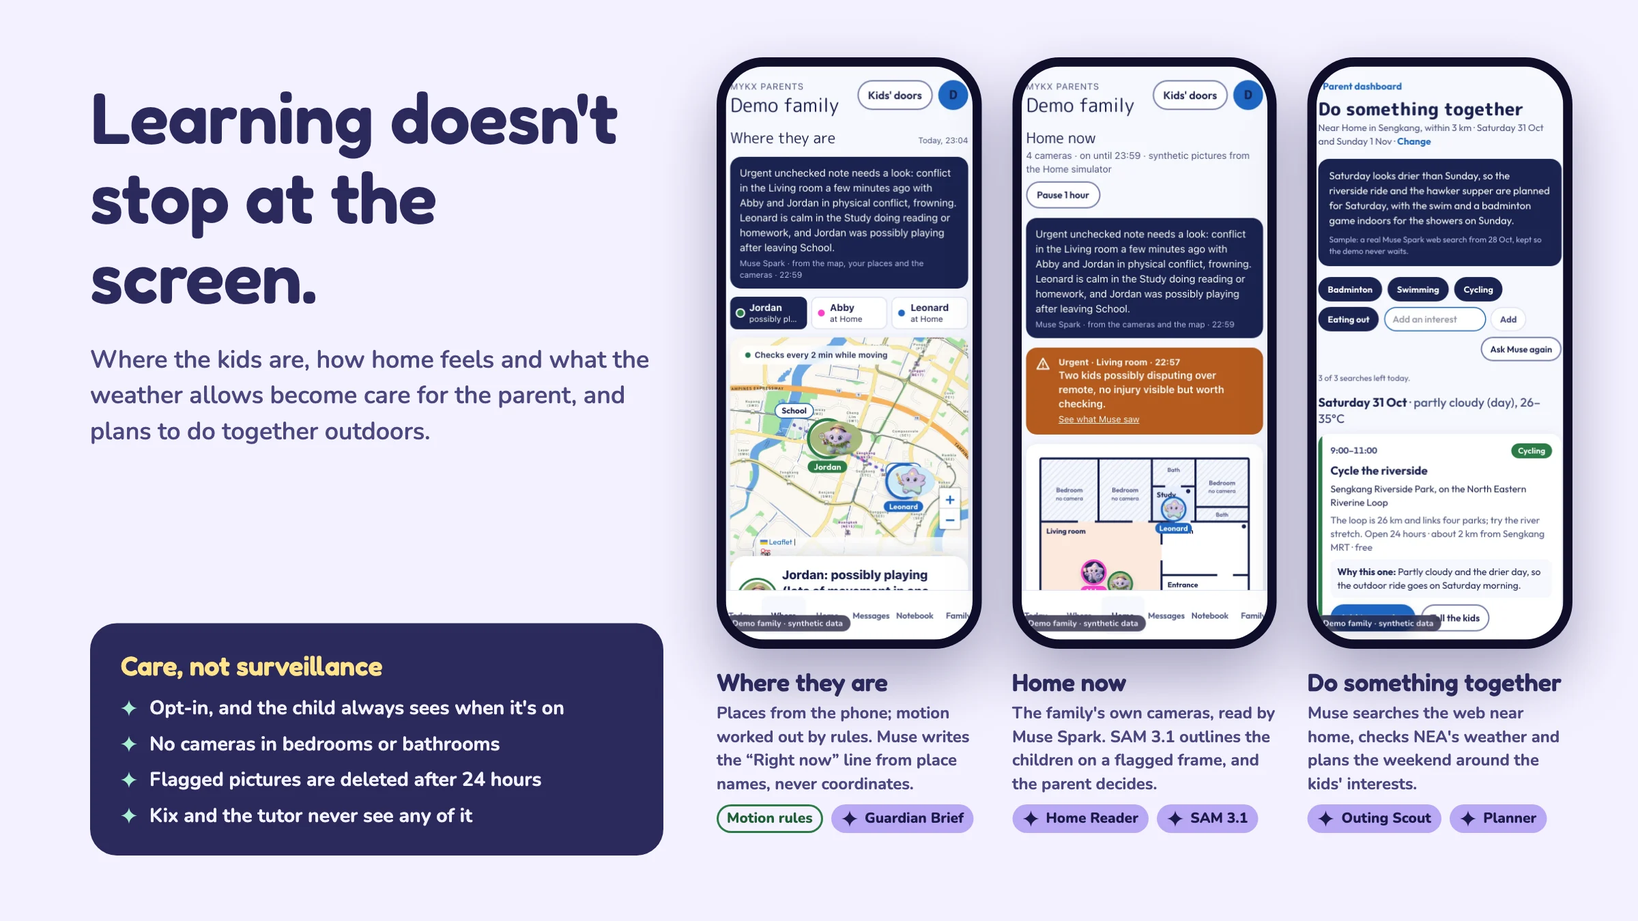
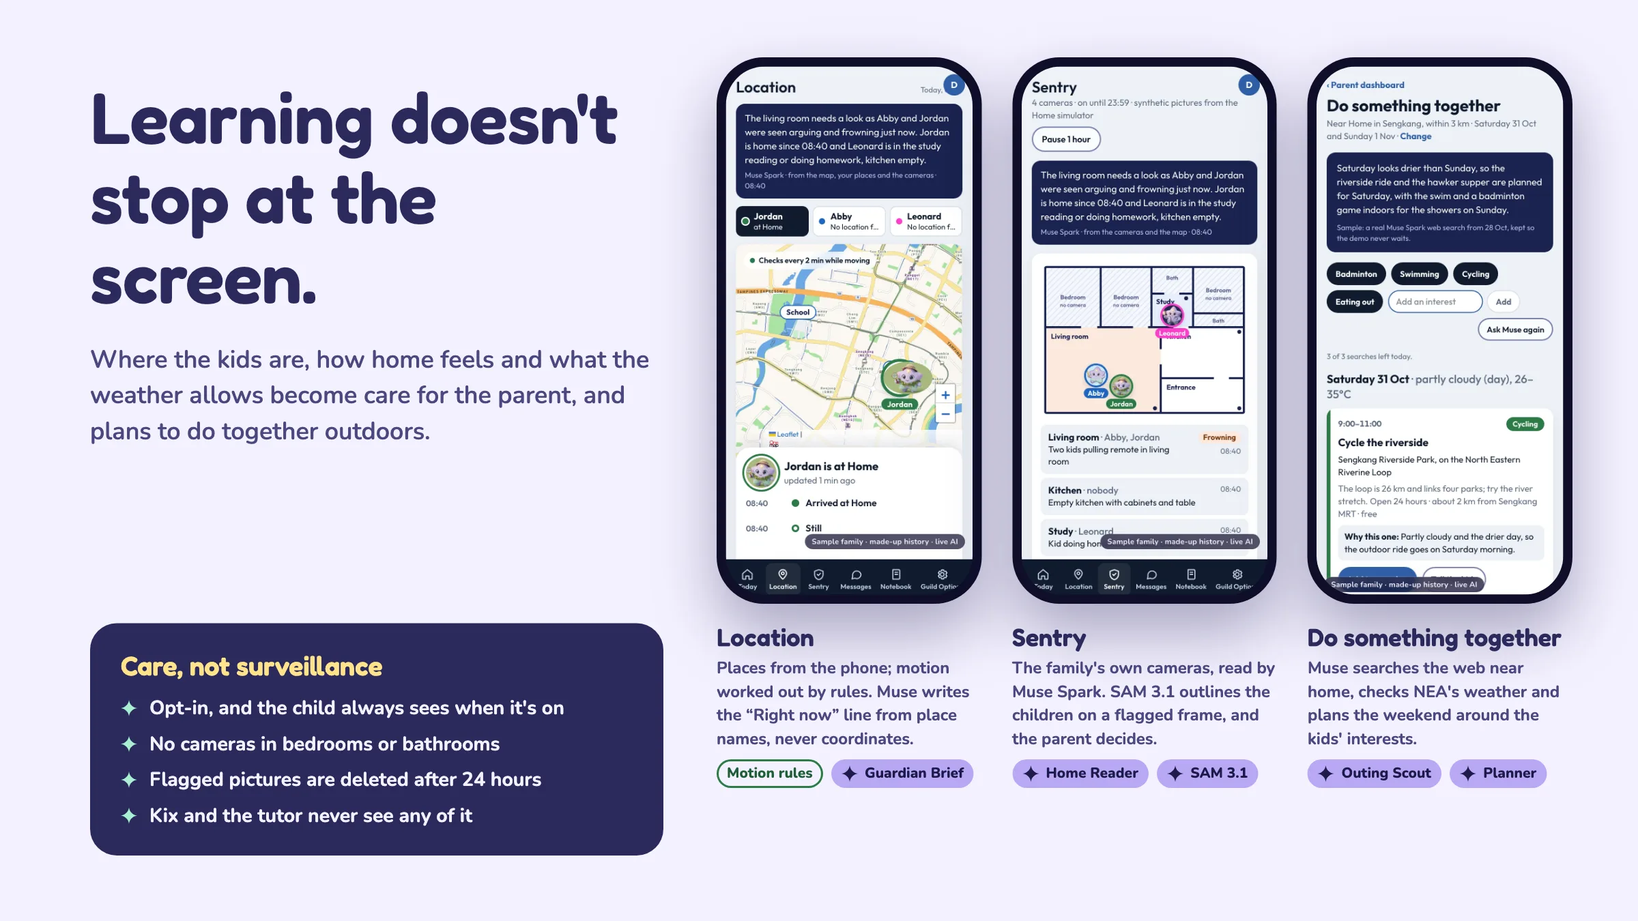
README: refresh the Guardian and parents' images; Location and Sentry
New captures of the redesigned parent pages on the local sample family,
after a simulator run, with Muse Spark's live summaries: Location, Sentry
and Do something together on phones, and Today, Sentry, Do something
together, Messages, Skills and Under the hood for the MVP board. Captions
and README text use the current tab names, Location and Sentry; the
Guardian board's phone screens show their full width.

Agent: Claude Code
Claude-Session: https://claude.ai/code/session_01W5FUqr3wzG1fxesKh8vtqK

Changed region(s): [[0.4375, 0.0622, 0.9688, 0.9022]]

diff --git a/docs/design/boards/ReadmeMvpFamily.dc.html b/docs/design/boards/ReadmeMvpFamily.dc.html
@@ -60,7 +60,7 @@ body{margin:0;background:#1C1B4A}
   <div><p class="m-kick">Everything in the MVP, 3 of 3 · the real app, signed in as the sample family</p><h1 class="rd-h2">For grown-ups and the team.</h1></div>
   <div class="m-power"><p><svg class="rd-spark" viewBox="0 0 24 24" aria-hidden="true"><path d="M12 0c.8 6.4 5.6 11.2 12 12-6.4.8-11.2 5.6-12 12-.8-6.4-5.6-11.2-12-12C6.4 11.2 11.2 6.4 12 0z"/></svg>Powered by Meta Muse</p><div class="rd-chips"><span class="rd-m"><svg class="rd-spark" viewBox="0 0 24 24" aria-hidden="true"><path d="M12 0c.8 6.4 5.6 11.2 12 12-6.4.8-11.2 5.6-12 12-.8-6.4-5.6-11.2-12-12C6.4 11.2 11.2 6.4 12 0z"/></svg>Muse Spark 1.3</span><span class="rd-m"><svg class="rd-spark" viewBox="0 0 24 24" aria-hidden="true"><path d="M12 0c.8 6.4 5.6 11.2 12 12-6.4.8-11.2 5.6-12 12-.8-6.4-5.6-11.2-12-12C6.4 11.2 11.2 6.4 12 0z"/></svg>SAM 3.1</span></div><small>19 specialist agents, 17 on Muse · Kix Synapse learns from every flag · twelve skill packs · three age bands</small></div>
 </div>
-<div class="m-grid"><figure class="m-tile" style="margin:0"><div class="rd-shot"><img src="/_blob/198695181e77f0c19d8d9aaa051f0a2a" alt="Parent Today"></div><div class="m-cap"><div><b>Parent Today</b><span class="d">Flags with the evidence, and tonight</span></div><div class="rd-chips"><span class="rd-m"><svg class="rd-spark" viewBox="0 0 24 24" aria-hidden="true"><path d="M12 0c.8 6.4 5.6 11.2 12 12-6.4.8-11.2 5.6-12 12-.8-6.4-5.6-11.2-12-12C6.4 11.2 11.2 6.4 12 0z"/></svg>Muse Spark</span><span class="rd-r">Rules</span></div></div></figure><figure class="m-tile" style="margin:0"><div class="rd-shot"><img src="/_blob/5897656b40afef5c436b44916e9c4a78" alt="Home now"></div><div class="m-cap"><div><b>Home now</b><span class="d">The family&#x27;s cameras, read by Muse</span></div><div class="rd-chips"><span class="rd-m"><svg class="rd-spark" viewBox="0 0 24 24" aria-hidden="true"><path d="M12 0c.8 6.4 5.6 11.2 12 12-6.4.8-11.2 5.6-12 12-.8-6.4-5.6-11.2-12-12C6.4 11.2 11.2 6.4 12 0z"/></svg>Muse Spark</span><span class="rd-m"><svg class="rd-spark" viewBox="0 0 24 24" aria-hidden="true"><path d="M12 0c.8 6.4 5.6 11.2 12 12-6.4.8-11.2 5.6-12 12-.8-6.4-5.6-11.2-12-12C6.4 11.2 11.2 6.4 12 0z"/></svg>SAM 3.1</span></div></div></figure><figure class="m-tile" style="margin:0"><div class="rd-shot"><img src="/_blob/a09f91fb773a0162f9350647e13cfd2a" alt="Do something together"></div><div class="m-cap"><div><b>Do something together</b><span class="d">Weekend ideas, sourced from the web</span></div><div class="rd-chips"><span class="rd-m"><svg class="rd-spark" viewBox="0 0 24 24" aria-hidden="true"><path d="M12 0c.8 6.4 5.6 11.2 12 12-6.4.8-11.2 5.6-12 12-.8-6.4-5.6-11.2-12-12C6.4 11.2 11.2 6.4 12 0z"/></svg>Muse Spark</span></div></div></figure><figure class="m-tile" style="margin:0"><div class="rd-shot"><img src="/_blob/9dce9909d1b8d35c8845e19f47ff4495" alt="Messages"></div><div class="m-cap"><div><b>Messages</b><span class="d">Kix suggests a cheer, never reads them</span></div><div class="rd-chips"><span class="rd-r">Rules</span></div></div></figure><figure class="m-tile" style="margin:0"><div class="rd-shot"><img src="/_blob/d097f2ff92f98dd10753a1e165b8de18" alt="Skills admin"></div><div class="m-cap"><div><b>Skills admin</b><span class="d">Twelve packs, versioned and reviewed</span></div><div class="rd-chips"><span class="rd-m"><svg class="rd-spark" viewBox="0 0 24 24" aria-hidden="true"><path d="M12 0c.8 6.4 5.6 11.2 12 12-6.4.8-11.2 5.6-12 12-.8-6.4-5.6-11.2-12-12C6.4 11.2 11.2 6.4 12 0z"/></svg>Muse Spark</span></div></div></figure><figure class="m-tile" style="margin:0"><div class="rd-shot"><img src="/_blob/f2b7bfd7dd2380bb8db4516afaab583c" alt="Under the hood"></div><div class="m-cap"><div><b>Under the hood</b><span class="d">19 agents, every model call logged</span></div><div class="rd-chips"><span class="rd-m"><svg class="rd-spark" viewBox="0 0 24 24" aria-hidden="true"><path d="M12 0c.8 6.4 5.6 11.2 12 12-6.4.8-11.2 5.6-12 12-.8-6.4-5.6-11.2-12-12C6.4 11.2 11.2 6.4 12 0z"/></svg>Muse Spark</span><span class="rd-r">Rules</span></div></div></figure></div>
+<div class="m-grid"><figure class="m-tile" style="margin:0"><div class="rd-shot"><img src="/_blob/198695181e77f0c19d8d9aaa051f0a2a" alt="Parent Today"></div><div class="m-cap"><div><b>Parent Today</b><span class="d">Flags with the evidence, and tonight</span></div><div class="rd-chips"><span class="rd-m"><svg class="rd-spark" viewBox="0 0 24 24" aria-hidden="true"><path d="M12 0c.8 6.4 5.6 11.2 12 12-6.4.8-11.2 5.6-12 12-.8-6.4-5.6-11.2-12-12C6.4 11.2 11.2 6.4 12 0z"/></svg>Muse Spark</span><span class="rd-r">Rules</span></div></div></figure><figure class="m-tile" style="margin:0"><div class="rd-shot"><img src="/_blob/5897656b40afef5c436b44916e9c4a78" alt="Sentry"></div><div class="m-cap"><div><b>Sentry</b><span class="d">The family&#x27;s cameras, read by Muse</span></div><div class="rd-chips"><span class="rd-m"><svg class="rd-spark" viewBox="0 0 24 24" aria-hidden="true"><path d="M12 0c.8 6.4 5.6 11.2 12 12-6.4.8-11.2 5.6-12 12-.8-6.4-5.6-11.2-12-12C6.4 11.2 11.2 6.4 12 0z"/></svg>Muse Spark</span><span class="rd-m"><svg class="rd-spark" viewBox="0 0 24 24" aria-hidden="true"><path d="M12 0c.8 6.4 5.6 11.2 12 12-6.4.8-11.2 5.6-12 12-.8-6.4-5.6-11.2-12-12C6.4 11.2 11.2 6.4 12 0z"/></svg>SAM 3.1</span></div></div></figure><figure class="m-tile" style="margin:0"><div class="rd-shot"><img src="/_blob/a09f91fb773a0162f9350647e13cfd2a" alt="Do something together"></div><div class="m-cap"><div><b>Do something together</b><span class="d">Weekend ideas, sourced from the web</span></div><div class="rd-chips"><span class="rd-m"><svg class="rd-spark" viewBox="0 0 24 24" aria-hidden="true"><path d="M12 0c.8 6.4 5.6 11.2 12 12-6.4.8-11.2 5.6-12 12-.8-6.4-5.6-11.2-12-12C6.4 11.2 11.2 6.4 12 0z"/></svg>Muse Spark</span></div></div></figure><figure class="m-tile" style="margin:0"><div class="rd-shot"><img src="/_blob/9dce9909d1b8d35c8845e19f47ff4495" alt="Messages"></div><div class="m-cap"><div><b>Messages</b><span class="d">Kix suggests a cheer, never reads them</span></div><div class="rd-chips"><span class="rd-r">Rules</span></div></div></figure><figure class="m-tile" style="margin:0"><div class="rd-shot"><img src="/_blob/d097f2ff92f98dd10753a1e165b8de18" alt="Skills admin"></div><div class="m-cap"><div><b>Skills admin</b><span class="d">Twelve packs, versioned and reviewed</span></div><div class="rd-chips"><span class="rd-m"><svg class="rd-spark" viewBox="0 0 24 24" aria-hidden="true"><path d="M12 0c.8 6.4 5.6 11.2 12 12-6.4.8-11.2 5.6-12 12-.8-6.4-5.6-11.2-12-12C6.4 11.2 11.2 6.4 12 0z"/></svg>Muse Spark</span></div></div></figure><figure class="m-tile" style="margin:0"><div class="rd-shot"><img src="/_blob/f2b7bfd7dd2380bb8db4516afaab583c" alt="Under the hood"></div><div class="m-cap"><div><b>Under the hood</b><span class="d">19 agents, every model call logged</span></div><div class="rd-chips"><span class="rd-m"><svg class="rd-spark" viewBox="0 0 24 24" aria-hidden="true"><path d="M12 0c.8 6.4 5.6 11.2 12 12-6.4.8-11.2 5.6-12 12-.8-6.4-5.6-11.2-12-12C6.4 11.2 11.2 6.4 12 0z"/></svg>Muse Spark</span><span class="rd-r">Rules</span></div></div></figure></div>
 
 </div>
 </x-dc>

diff --git a/docs/design/boards/ReadmeOutdoors.dc.html b/docs/design/boards/ReadmeOutdoors.dc.html
@@ -43,7 +43,7 @@ body{margin:0;background:#1C1B4A}
 .o-care li svg{position:absolute;left:0;top:5px;width:16px;height:16px;fill:#A8F0D4}
 .o-phones{position:absolute;left:700px;right:64px;top:56px;display:grid;grid-template-columns:repeat(3,1fr);gap:30px}
 .o-phone .rd-phone{width:100%}
-.o-phone .rd-phone img{height:560px;object-fit:cover;object-position:50% 0}
+.o-phone .rd-phone img{height:516px;object-fit:cover;object-position:50% 0}
 .o-cap{margin-top:18px}
 .o-cap h3{font:600 24px/30px "Fredoka",sans-serif;color:#2B2A5C}
 .o-cap p{margin-top:4px;font:700 16px/23px "Nunito",sans-serif;color:#4B4880}
@@ -58,7 +58,7 @@ body{margin:0;background:#1C1B4A}
   <p class="rd-lede">Where the kids are, how home feels and what the weather allows become care for the parent, and plans to do together outdoors.</p>
 </div>
 <div class="o-care"><h3>Care, not surveillance</h3><ul><li><svg viewBox="0 0 24 24" aria-hidden="true"><path d="M12 0c.8 6.4 5.6 11.2 12 12-6.4.8-11.2 5.6-12 12-.8-6.4-5.6-11.2-12-12C6.4 11.2 11.2 6.4 12 0z"/></svg>Opt-in, and the child always sees when it's on</li><li><svg viewBox="0 0 24 24" aria-hidden="true"><path d="M12 0c.8 6.4 5.6 11.2 12 12-6.4.8-11.2 5.6-12 12-.8-6.4-5.6-11.2-12-12C6.4 11.2 11.2 6.4 12 0z"/></svg>No cameras in bedrooms or bathrooms</li><li><svg viewBox="0 0 24 24" aria-hidden="true"><path d="M12 0c.8 6.4 5.6 11.2 12 12-6.4.8-11.2 5.6-12 12-.8-6.4-5.6-11.2-12-12C6.4 11.2 11.2 6.4 12 0z"/></svg>Flagged pictures are deleted after 24 hours</li><li><svg viewBox="0 0 24 24" aria-hidden="true"><path d="M12 0c.8 6.4 5.6 11.2 12 12-6.4.8-11.2 5.6-12 12-.8-6.4-5.6-11.2-12-12C6.4 11.2 11.2 6.4 12 0z"/></svg>Kix and the tutor never see any of it</li></ul></div>
-<div class="o-phones"><figure class="o-phone" style="margin:0"><div class="rd-phone"><img src="/_blob/34feb44203523023f11acf19e640b4f6" alt="Where they are on the parent's phone"></div><figcaption class="o-cap"><h3>Where they are</h3><p>Places from the phone; motion worked out by rules. Muse writes the “Right now” line from place names, never coordinates.</p><div class="rd-chips"><span class="rd-r">Motion rules</span><span class="rd-m"><svg class="rd-spark" viewBox="0 0 24 24" aria-hidden="true"><path d="M12 0c.8 6.4 5.6 11.2 12 12-6.4.8-11.2 5.6-12 12-.8-6.4-5.6-11.2-12-12C6.4 11.2 11.2 6.4 12 0z"/></svg>Guardian Brief</span></div></figcaption></figure><figure class="o-phone" style="margin:0"><div class="rd-phone"><img src="/_blob/eb51ed264e4f14a415817506bf9d4553" alt="Home now on the parent's phone"></div><figcaption class="o-cap"><h3>Home now</h3><p>The family's own cameras, read by Muse Spark. SAM 3.1 outlines the children on a flagged frame, and the parent decides.</p><div class="rd-chips"><span class="rd-m"><svg class="rd-spark" viewBox="0 0 24 24" aria-hidden="true"><path d="M12 0c.8 6.4 5.6 11.2 12 12-6.4.8-11.2 5.6-12 12-.8-6.4-5.6-11.2-12-12C6.4 11.2 11.2 6.4 12 0z"/></svg>Home Reader</span><span class="rd-m"><svg class="rd-spark" viewBox="0 0 24 24" aria-hidden="true"><path d="M12 0c.8 6.4 5.6 11.2 12 12-6.4.8-11.2 5.6-12 12-.8-6.4-5.6-11.2-12-12C6.4 11.2 11.2 6.4 12 0z"/></svg>SAM 3.1</span></div></figcaption></figure><figure class="o-phone" style="margin:0"><div class="rd-phone"><img src="/_blob/2e3287674b47c1eb53a198e1cdeb248f" alt="Do something together on the parent's phone"></div><figcaption class="o-cap"><h3>Do something together</h3><p>Muse searches the web near home, checks NEA's weather and plans the weekend around the kids' interests.</p><div class="rd-chips"><span class="rd-m"><svg class="rd-spark" viewBox="0 0 24 24" aria-hidden="true"><path d="M12 0c.8 6.4 5.6 11.2 12 12-6.4.8-11.2 5.6-12 12-.8-6.4-5.6-11.2-12-12C6.4 11.2 11.2 6.4 12 0z"/></svg>Outing Scout</span><span class="rd-m"><svg class="rd-spark" viewBox="0 0 24 24" aria-hidden="true"><path d="M12 0c.8 6.4 5.6 11.2 12 12-6.4.8-11.2 5.6-12 12-.8-6.4-5.6-11.2-12-12C6.4 11.2 11.2 6.4 12 0z"/></svg>Planner</span></div></figcaption></figure></div>
+<div class="o-phones"><figure class="o-phone" style="margin:0"><div class="rd-phone"><img src="/_blob/34feb44203523023f11acf19e640b4f6" alt="Location on the parent's phone"></div><figcaption class="o-cap"><h3>Location</h3><p>Places from the phone; motion worked out by rules. Muse writes the “Right now” line from place names, never coordinates.</p><div class="rd-chips"><span class="rd-r">Motion rules</span><span class="rd-m"><svg class="rd-spark" viewBox="0 0 24 24" aria-hidden="true"><path d="M12 0c.8 6.4 5.6 11.2 12 12-6.4.8-11.2 5.6-12 12-.8-6.4-5.6-11.2-12-12C6.4 11.2 11.2 6.4 12 0z"/></svg>Guardian Brief</span></div></figcaption></figure><figure class="o-phone" style="margin:0"><div class="rd-phone"><img src="/_blob/eb51ed264e4f14a415817506bf9d4553" alt="Sentry on the parent's phone"></div><figcaption class="o-cap"><h3>Sentry</h3><p>The family's own cameras, read by Muse Spark. SAM 3.1 outlines the children on a flagged frame, and the parent decides.</p><div class="rd-chips"><span class="rd-m"><svg class="rd-spark" viewBox="0 0 24 24" aria-hidden="true"><path d="M12 0c.8 6.4 5.6 11.2 12 12-6.4.8-11.2 5.6-12 12-.8-6.4-5.6-11.2-12-12C6.4 11.2 11.2 6.4 12 0z"/></svg>Home Reader</span><span class="rd-m"><svg class="rd-spark" viewBox="0 0 24 24" aria-hidden="true"><path d="M12 0c.8 6.4 5.6 11.2 12 12-6.4.8-11.2 5.6-12 12-.8-6.4-5.6-11.2-12-12C6.4 11.2 11.2 6.4 12 0z"/></svg>SAM 3.1</span></div></figcaption></figure><figure class="o-phone" style="margin:0"><div class="rd-phone"><img src="/_blob/2e3287674b47c1eb53a198e1cdeb248f" alt="Do something together on the parent's phone"></div><figcaption class="o-cap"><h3>Do something together</h3><p>Muse searches the web near home, checks NEA's weather and plans the weekend around the kids' interests.</p><div class="rd-chips"><span class="rd-m"><svg class="rd-spark" viewBox="0 0 24 24" aria-hidden="true"><path d="M12 0c.8 6.4 5.6 11.2 12 12-6.4.8-11.2 5.6-12 12-.8-6.4-5.6-11.2-12-12C6.4 11.2 11.2 6.4 12 0z"/></svg>Outing Scout</span><span class="rd-m"><svg class="rd-spark" viewBox="0 0 24 24" aria-hidden="true"><path d="M12 0c.8 6.4 5.6 11.2 12 12-6.4.8-11.2 5.6-12 12-.8-6.4-5.6-11.2-12-12C6.4 11.2 11.2 6.4 12 0z"/></svg>Planner</span></div></figcaption></figure></div>
 
 </div>
 </x-dc>

diff --git a/docs/design/canvas-src/readme-boards.py b/docs/design/canvas-src/readme-boards.py
@@ -291,7 +291,7 @@ out_css = """
 .o-care li svg{position:absolute;left:0;top:5px;width:16px;height:16px;fill:#A8F0D4}
 .o-phones{position:absolute;left:700px;right:64px;top:56px;display:grid;grid-template-columns:repeat(3,1fr);gap:30px}
 .o-phone .rd-phone{width:100%}
-.o-phone .rd-phone img{height:560px;object-fit:cover;object-position:50% 0}
+.o-phone .rd-phone img{height:516px;object-fit:cover;object-position:50% 0}
 .o-cap{margin-top:18px}
 .o-cap h3{font:600 24px/30px "Fredoka",sans-serif;color:#2B2A5C}
 .o-cap p{margin-top:4px;font:700 16px/23px "Nunito",sans-serif;color:#4B4880}
@@ -300,8 +300,8 @@ out_css = """
 """
 li = lambda t: f"<li>{DOT}{t}</li>"
 phones = [
-    ("phone-where", "Where they are", "Places from the phone; motion worked out by rules. Muse writes the “Right now” line from place names, never coordinates.", rules("Motion rules") + muse("Guardian Brief")),
-    ("phone-home", "Home now", "The family's own cameras, read by Muse Spark. SAM 3.1 outlines the children on a flagged frame, and the parent decides.", muse("Home Reader") + muse("SAM 3.1")),
+    ("phone-where", "Location", "Places from the phone; motion worked out by rules. Muse writes the “Right now” line from place names, never coordinates.", rules("Motion rules") + muse("Guardian Brief")),
+    ("phone-home", "Sentry", "The family's own cameras, read by Muse Spark. SAM 3.1 outlines the children on a flagged frame, and the parent decides.", muse("Home Reader") + muse("SAM 3.1")),
     ("phone-together", "Do something together", "Muse searches the web near home, checks NEA's weather and plans the weekend around the kids' interests.", muse("Outing Scout") + muse("Planner")),
 ]
 phones_html = "".join(f'<figure class="o-phone" style="margin:0"><div class="rd-phone"><img src="{img(k)}" alt="{t} on the parent\'s phone"></div><figcaption class="o-cap"><h3>{t}</h3><p>{d}</p><div class="rd-chips">{c}</div></figcaption></figure>' for k, t, d, c in phones)
@@ -461,7 +461,7 @@ mvp_board("ReadmeMvpPlay", 2, "For kids: play, raise and make.", [
 ], ["Muse Spark", "Muse Image"])
 mvp_board("ReadmeMvpFamily", 3, "For grown-ups and the team.", [
     ("mvp-parent-today", "Parent Today", "Flags with the evidence, and tonight", muse("Muse Spark") + rules()),
-    ("parent-home", "Home now", "The family's cameras, read by Muse", muse("Muse Spark") + muse("SAM 3.1")),
+    ("parent-home", "Sentry", "The family's cameras, read by Muse", muse("Muse Spark") + muse("SAM 3.1")),
     ("mvp-parent-together", "Do something together", "Weekend ideas, sourced from the web", muse("Muse Spark")),
     ("mvp-parent-messages", "Messages", "Kix suggests a cheer, never reads them", rules()),
     ("mvp-admin-skills", "Skills admin", "Twelve packs, versioned and reviewed", muse("Muse Spark")),

diff --git a/README.md b/README.md
@@ -243,10 +243,10 @@ The full design is in [docs/prd/PETS.md](docs/prd/PETS.md).
 
 ## Beyond the screen: Guardian
 
-<img src="docs/readme/beyond-the-screen.webp" alt="Learning doesn't stop at the screen: Where they are, Home now and Do something together on the parent's phone, and four care rules." width="100%">
+<img src="docs/readme/beyond-the-screen.webp" alt="Learning doesn't stop at the screen: Location, Sentry and Do something together on the parent's phone, and four care rules." width="100%">
 
-- **Where they are.** The phone's places and motion (walking, on a bus, possibly playing), worked out by rules. Muse Spark writes the "Right now" line from place names, never coordinates.
-- **Home now.** The family's own cameras, read by Muse Spark into words: who's in which room and what's happening. On a flagged moment, SAM 3.1 outlines the children, and the parent decides: Right or Not right. A "not right" makes that camera need one more matching check next time.
+- **Location.** The phone's places and motion (walking, on a bus, possibly playing), worked out by rules. Muse Spark writes the "Right now" line from place names, never coordinates.
+- **Sentry.** The family's own cameras, read by Muse Spark into words: who's in which room and what's happening. On a flagged moment, SAM 3.1 outlines the children, and the parent decides: Right or Not right. A "not right" makes that camera need one more matching check next time.
 - **Do something together.** Muse Spark searches the web near home for things to do with the kids' interests, checks NEA's four-day weather and plans the weekend; ideas without a source are dropped.
 - **Tonight.** One calm paragraph about all three children, from facts the database already holds.
 
@@ -268,11 +268,11 @@ Every screen below is the real app, signed in as the sample family, **powered by
 
 <img src="docs/readme/mvp-play.webp" alt="Everything in the MVP, 2 of 3, for kids: play, raise and make, powered by Meta Muse. Abby's teen study deck in her own room (rules), the Critter Lab with a tadpole turning down a cricket (Muse Spark, rules), Treasure Realm (rules, Muse Image), Sky Squadron (rules, Muse Image), the Arcade of learning games (rules), and Vibe Zone flashcards (Muse Spark)." width="100%">
 
-<img src="docs/readme/mvp-family.webp" alt="Everything in the MVP, 3 of 3, for grown-ups and the team, powered by Meta Muse. Parent Today with flags and their evidence (Muse Spark, rules), Home now with the family's cameras read by Muse (Muse Spark, SAM 3.1), Do something together with sourced weekend ideas (Muse Spark), Messages where Kix suggests a cheer (rules), the Skills admin with twelve versioned packs (Muse Spark), and Under the hood with 19 agents and every model call logged." width="100%">
+<img src="docs/readme/mvp-family.webp" alt="Everything in the MVP, 3 of 3, for grown-ups and the team, powered by Meta Muse. Parent Today with flags and their evidence (Muse Spark, rules), Sentry with the family's cameras read by Muse (Muse Spark, SAM 3.1), Do something together with sourced weekend ideas (Muse Spark), Messages where Kix suggests a cheer (rules), the Skills admin with twelve versioned packs (Muse Spark), and Under the hood with 19 agents and every model call logged." width="100%">
 
 **For kids:** magic-name sign-in with their own door · Sidekick Studio · Home with today's quest · Quest map · Question player with hints, reasons, voice and sparks · Treasure Realm · Critter Lab pets raised through real life cycles · Sky Squadron · Vibe Zone flashcards · Arcade typing games · Ask Kix homework help · Talk to Kix · printable practice papers · family messages with Kix stickers · a flag on every question and AI reply to tell Kix's crew what's wrong (Kix Synapse).
 
-**For parents:** Today, with flags shown alongside their evidence · Tonight · wellbeing notes ("possibly tired", against the child's own baseline, never a diagnosis) · focus notes with a line-drawing replay · Kix's Notebook · Messages · Where they are · Home now · Do something together · Your family (sign-in codes, voice, focus camera, screen time).
+**For parents:** Today, with flags shown alongside their evidence · Tonight · wellbeing notes ("possibly tired", against the child's own baseline, never a diagnosis) · focus notes with a line-drawing replay · Kix's Notebook · Messages · Location · Sentry · Do something together · Your family (sign-in codes, voice, focus camera, screen time).
 
 **For admins:** Skills catalogue (twelve versioned packs) · Add knowledge (the Content Curator) · weekly new papers · People · Under the hood (19 agents, editable instructions for 11 of them, every model call logged) · **Kix Synapse** (the inbox of flags with each case's trace, review, fix and test; learned cautions; evals; settings; the retrain dataset).
 

diff --git a/docs/plan/PROGRESS.md b/docs/plan/PROGRESS.md
@@ -135,6 +135,7 @@ Dates are SGT. "Agent" is who did the work; "Tools" are the models and services 
 | 30 Oct | README: a focus camera section (founder: "highlight it"): what runs on the device, the per-minute counts, the dip rule against the child's own usual, the break and the parent's note with its line-drawing replay, and the founder's live test on production (five real minutes arrived as counts only; two eyes-closed minutes scored 80, no note, as the rule says). New image `docs/readme/focus-camera.webp`, rendered from real local captures (the kid's chip and explanation; the sample family's labelled sample note and replay) in the README boards' style; linked from the judges' Technical depth row, Kix gets better every day and the parent MVP list. | Claude Code | none | 5592c38 | The red-dot chip and the replay |
 | 30 Oct | README (founder): the models subsection is renamed "Five Meta models, and what each one powers" (it lists all five, not only the open weights; the judges' link follows); the agents table's Synapse rows and the models table say only which models each job can use (Muse Spark Open or Muse Spark 1.3, as Synapse settings allow), without Baseten or key notes. The paragraph under the models table still says how the fallback works. | Claude Code | none | 92348c8 | none |
 | 30 Oct | README simulator image refreshed (founder: "outdated"): new captures from current code on the local sample family. The simulator paired like a real device, sent Jordan's location and three camera frames; Muse Spark read them in about 7 s, and the parent's Sentry on a phone shows the live brief (Abby and Jordan arguing in the living room needs a look, Leonard reading, the kitchen empty). The board fits the taller two-part simulator (Kid's phone, Home cameras) and its phone caption says Sentry. | Claude Code | Muse Spark (`muse-spark-1.3`: Home Reader, Guardian Brief) | f88ef22 | none |
+| 30 Oct | README Guardian and parents' MVP images refreshed (founder: yes): new captures of the redesigned parent pages on the local sample family after a simulator run, with Muse Spark's live summaries (Location, Sentry, Today) and the sample weekend plan; the admin Skills and Under the hood tiles recaptured too. Captions and README text use the current tab names, Location and Sentry; the Guardian board's phone screens now show the full width. The simulator image is re-rendered from the same run. Two Guardian Brief and Tonight calls failed at Meta's API during the first try (no request id or tokens), and the labelled rules summary stood in, as designed; the captures used are from a later run where all three were live. | Claude Code | Muse Spark (`muse-spark-1.3`: Home Reader, Guardian Brief, Tonight) | (this commit) | none |
 
 ## How to add a row
 
